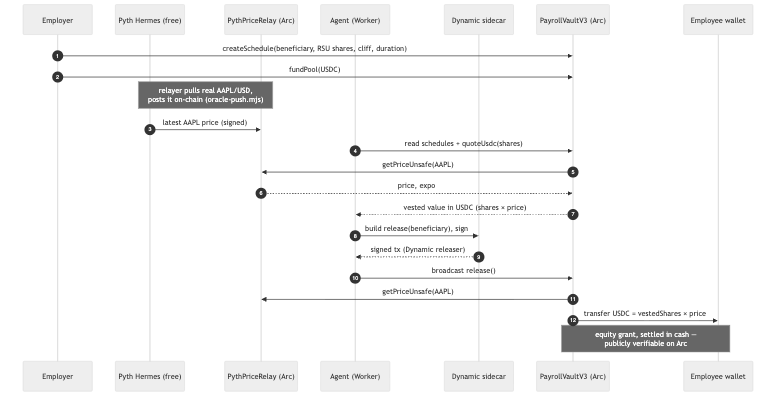
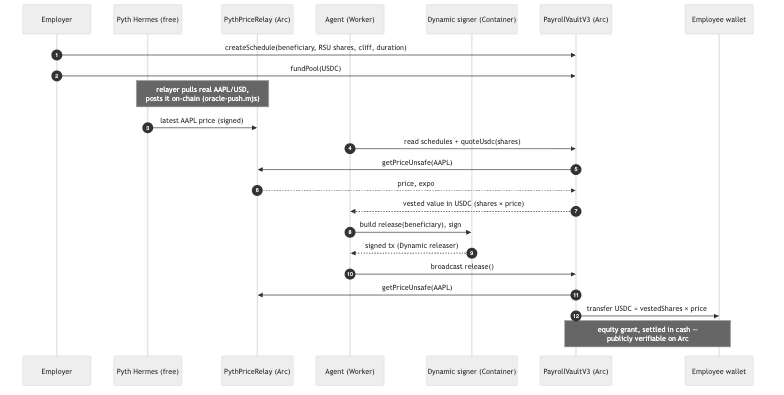
docs: reflect the Cloudflare Container signer; drop the tunnel script
The signer moved from a laptop Node process + cloudflared tunnel to a Cloudflare
Container fronted by the Worker, so the live on-chain path now runs fully on
Cloudflare. Updated README, DEMO, ARCHITECTURE (+ re-rendered diagrams),
SUBMISSION, and submission.txt accordingly; corrected drifted server.mjs line
anchors. Removed scripts/live-signer.sh (the obsolete tunnel launcher).

No secrets: .dev.vars / .wallet.json were never committed and stay gitignored;
.dev.vars.example holds only empty placeholders; no real secret value appears in
any tracked file.

diff --git a/docs/DEMO.md b/docs/DEMO.md
@@ -7,20 +7,27 @@ run it and a walkthrough of what each part does.
 
 ## Run it
 
-The deployed app is live at **https://manila.maxwellandrew.com** — the agent,
-policy engine, maker-checker approvals, live balances, vesting display, and audit
-export all run there.
+The deployed app is live at **https://manila.maxwellandrew.com** and runs
+entirely on Cloudflare — the agent, policy engine, maker-checker approvals, live
+balances, vesting display, audit export, *and* live on-chain signing (sealing
+salaries, releasing equity).
 
-Live on-chain signing (sealing salaries, releasing equity) is performed by a
-Dynamic **MPC server wallet** that runs in a small Node sidecar — the Dynamic SDK
-ships a native binary that can't run inside Cloudflare Workers. To exercise the
-signing paths against the deployed app, run the sidecar and point the Worker at
-it:
+The Dynamic **MPC server wallet** signs from a **Cloudflare Container** the Worker
+calls through a Durable Object binding — the Dynamic SDK ships a native binary
+that can't run inside a Worker, and the container is the minimal real-OS process
+that can. There's nothing to stand up separately; it scales to zero, so the first
+signing action after it's been idle cold-starts it (~15s) and it stays warm while
+you use the app.
+
+To post a fresh equity price to the on-chain oracle:
 
 ```sh
-bash scripts/live-signer.sh     # starts the signing sidecar + a tunnel, points the deployed Worker at it
-node scripts/oracle-push.mjs   # posts the latest AAPL/USD price to the on-chain oracle
+node scripts/oracle-push.mjs   # posts the latest AAPL/USD price to the oracle
 ```
+
+Redeploying the signer container needs Docker running locally (`wrangler deploy`
+builds its amd64 image; on Apple Silicon, turn on Docker's Rosetta option so the
+build is fast).
 
 Reset to a clean state any time with **↺ Reset demo** in the footer (time-aware —
 it re-opens today's run without deleting history).
@@ -83,10 +90,10 @@ the employer.
 - **Two-leg payments.** A salary run has a sealed value leg (Unlink) and a metered
   nanopayment leg (x402 → Circle Gateway). The per-call nanopayment is the
   agent-to-service economy pattern, and the platform-fee rail.
-- **Keyless agent.** Signing runs in the Dynamic SDK's native MPC binary, so it
-  lives in a Node sidecar the Worker calls over an authenticated channel; the
-  Worker never holds key material. In production the sidecar runs on a small
-  always-on host rather than a laptop.
+- **Keyless agent.** Signing runs in the Dynamic SDK's native MPC binary, which
+  can't load in a Worker — so it runs in a Cloudflare Container the Worker calls
+  through a Durable Object binding; the Worker never holds key material. Same
+  platform, one `wrangler deploy`, no tunnel or separate host.
 - **Oracle by interface, not address.** The vault consumes `IPyth`; on Arc we
   supply a relay implementing it. Pointing at a canonical Pyth deployment is a
   constructor address change, no code edits.

diff --git a/README.md b/README.md
@@ -6,7 +6,7 @@ For a century, salaries were private because they came in a sealed manila envelo
 
 > Built solo at ETHGlobal New York 2026.
 
-**Live:** [manila.maxwellandrew.com](https://manila.maxwellandrew.com) — the agent, policy engine, maker-checker approval, live treasury balance, and audit export run on the deployed URL. The full on-chain disbursement path (Dynamic-signed, Gateway-batched, Unlink-sealed) runs locally against the signing sidecar; see [Run it](#run-it).
+**Live:** [manila.maxwellandrew.com](https://manila.maxwellandrew.com) — the whole app runs on Cloudflare: the agent, policy engine, maker-checker approval, live treasury balance, audit export, and the full on-chain disbursement path (Dynamic-signed, Gateway-batched, Unlink-sealed). The Dynamic MPC signer runs as a **Cloudflare Container** the Worker calls through a binding (its native binary can't load in a Worker); see [Run it](#run-it).
 
 A real agent-driven payroll run has settled on Arc testnet — three salaries sealed as private Unlink transfers, e.g. tx [`0x1e76d25d…b15f4c`](https://testnet.arcscan.app/tx/0x1e76d25d2ceb8900649b1b30fe7e8bb99ca7dc6b20e840707501a905c5b15f4c) (amount and counterparty unreadable on the explorer — that's the point).
 
@@ -37,7 +37,7 @@ This is only safe to leave unattended *because* the controls are deterministic: 
 
 Each integration is load-bearing — remove it and the product stops working, not just loses a feature.
 
-- **Dynamic** (Best Agentic Build, Best Money App, joint Private Nanopayments) — a Dynamic server wallet (MPC) is the treasury and the agent's signer. It lives in a Node sidecar (`sidecar/server.mjs`; the SDK's native MPC binary can't run in workerd) and signs every Gateway payment authorization over an authenticated channel (`src/lib/signer.ts`). The agent decides and executes, but holds no key material — the wallet signs on its behalf under the maker-checker controls.
+- **Dynamic** (Best Agentic Build, Best Money App, joint Private Nanopayments) — a Dynamic server wallet (MPC) is the treasury and the agent's signer. The SDK's signing runs in a native binary that can't load in workerd, so it runs in a **Cloudflare Container** (`sidecar/server.mjs`, `src/signer-container.ts`) that the Worker reaches through a Durable Object binding (`src/lib/signer.ts`) — same platform, no tunnel. It signs every Gateway payment authorization; the agent decides and executes, but holds no key material — the 2-of-2 wallet signs on its behalf under the maker-checker controls.
 - **Unlink** (joint Private Nanopayments) — every salary is sealed: each disbursement is an Unlink private transfer, so amounts and counterparties are unreadable on ArcScan (`src/lib/unlink.ts`, `src/routes/seal.ts`). This is the product's whole reason to exist; without it, payroll is public.
 - **Circle Gateway + Arc** (Best Agentic Economy, joint Private Nanopayments) — disbursements are metered as x402 nanopayments and netted by Circle Gateway into one batched, gas-free settlement on Arc testnet (`src/routes/seal.ts`, `src/routes/disburse.ts`). The agent paying per-call for each sealed disbursement is exactly the agent-to-service commerce pattern the Agentic Economy track is for.
 
@@ -50,7 +50,7 @@ The second rail is **equity that pays in cash**: [`PayrollVaultV3`](contracts/RE
 </p>
 
 - **Oracle.** The vault reads the standard Pyth `IPyth` interface. On Arc we provide [`PythPriceRelay`](contracts/src/PythPriceRelay.sol) — fed the real **AAPL/USD** price from Pyth's free [Hermes](https://hermes.pyth.network) feed (`scripts/oracle-push.mjs`) — so it's a drop-in for canonical Pyth (an address swap, no code change). The release payout literally tracks Apple's share price; raise the oracle and the same vested shares pay more USDC.
-- **Agent-operated.** The Dynamic server wallet is the vault's `releaser`; the agent releases (and re-arms) tranches on command, signed in the sidecar — every release a real, publicly verifiable USDC transfer on Arc, logged to the same audit trail.
+- **Agent-operated.** The Dynamic server wallet is the vault's `releaser`; the agent releases (and re-arms) tranches on command, signed in the container — every release a real, publicly verifiable USDC transfer on Arc, logged to the same audit trail.
 - **Deployed:** vault [`0x021Bf03C…B06b`](https://testnet.arcscan.app/address/0x021Bf03C10ed7d8205aaD4dE6D3847D94715B06b), oracle relay [`0xb8e18484…3424`](https://testnet.arcscan.app/address/0xb8e18484bebC0356A67293590B8affE2b55e3424).
 
 ## Roadmap
@@ -101,8 +101,9 @@ To exercise the live money path (real Arc testnet settlement), add sponsor crede
 cp .dev.vars.example .dev.vars     # DYNAMIC_API_KEY/ENV_ID, UNLINK_API_KEY, SEAL_FEE_ADDRESS,
                                    # SIGNER_SIDECAR_SECRET + SIDECAR_WALLET_PASSWORD (any random strings)
 
-# 1. Treasury wallet — the Dynamic MPC server wallet, in its Node sidecar.
+# 1. Treasury wallet — provision the Dynamic MPC server wallet and print its address.
 node sidecar/server.mjs            # prints the treasury address; copy it into .dev.vars as TREASURY_WALLET_ADDRESS
+                                   # (the same server.mjs runs as a Cloudflare Container in production — see Known limitations)
 
 # 2. Private accounts — treasury + employees on Unlink.
 node scripts/setup-unlink.mjs      # registers the accounts, faucets the treasury's private balance,
@@ -136,7 +137,7 @@ Once green, "Run today's payroll" seals three real private transfers on Arc, set
 
 ## Known limitations
 
-- The Dynamic MPC signer runs in a Node sidecar (`sidecar/server.mjs`) because the SDK ships a native binary that can't load in Cloudflare Workers. The deployed Worker reaches it over an authenticated channel; for judging, the live on-chain path runs locally (or with the sidecar tunnelled) while read endpoints and the agent run fully on the edge.
+- The Dynamic MPC signer runs as a **Cloudflare Container** (`sidecar/server.mjs`, `src/signer-container.ts`) because the SDK ships a native binary that can't load in a Worker. The Worker reaches it through a Durable Object binding, so the entire app — including the live on-chain signing path — runs on Cloudflare with no tunnel or separate host. The container scales to zero and wakes on demand (a ~15s cold start after idle, then warm while in use). Deploying it needs Docker running locally, since `wrangler deploy` builds the amd64 image; on Apple Silicon, enable Docker's Rosetta option so that build is fast.
 - The agent runs on the best free function-calling model on Workers AI (Llama 3.3 70B). It reliably parses intent and drafts; the policy gate and execute/approve branch are deterministic on purpose, so model variance can't affect correctness or bypass a control.
 - On arc-testnet the sealed token is a mock USDC (`USDCm`) from Unlink's faucet, not native USDC (see Privacy model).
 - Demo amounts are dollars, not thousands, because the Arc faucet grants 20 USDC per address per 2h — every transaction is real testnet value.

diff --git a/docs/ARCHITECTURE.md b/docs/ARCHITECTURE.md
@@ -20,8 +20,8 @@ flowchart TB
     Audit[("Audit log → CSV")]
   end
 
-  Sidecar["Signing sidecar (Node)<br/><b>Dynamic</b> MPC 2-of-2 server wallet"]
-  Sidecar -. signs, agent holds no keys .-> Agent
+  Sidecar["<b>Dynamic</b> MPC signer — Cloudflare Container<br/>2-of-2 server wallet (native binary, off-Worker)"]
+  Sidecar -. signs via DO binding; agent holds no keys .-> Agent
 
   subgraph Salary["Rail 1 — sealed daily salary (private)"]
     Seal["Seal service<br/>x402-protected, per employee"]
@@ -62,7 +62,7 @@ sequenceDiagram
   participant H as Pyth Hermes (free)
   participant R as PythPriceRelay (Arc)
   participant A as Agent (Worker)
-  participant S as Dynamic sidecar
+  participant S as Dynamic signer (Container)
   participant V as PayrollVaultV3 (Arc)
   participant B as Employee wallet
 

diff --git a/docs/SUBMISSION.md b/docs/SUBMISSION.md
@@ -27,4 +27,4 @@ An autonomous agent transacting via gas-free nanopayments on Arc: each disbursem
 Hidden from the public: salary amounts and counterparties (sealed via Unlink). Visible to the employer: the complete run history, every policy decision, and settlement references, exported as CSV. That split is the compliance-correct shape for payroll.
 
 ## Notes for judges
-The credential-free surface (agent, policy, maker-checker approval, live treasury balance, audit export) runs on the deployed URL. The full on-chain disbursement path runs locally against the Dynamic signing sidecar (its SDK ships a native binary that can't run on Cloudflare Workers); see the README "Run it" section. On arc-testnet the sealed token is Unlink's mock USDC (`USDCm`); the architecture is token-agnostic. AI tool usage is documented in `docs/AI_USAGE.md`, with the pre-build spec in `docs/SPEC.md` and per-sponsor DX feedback in `docs/FEEDBACK.md`.
+The entire app runs on Cloudflare at the deployed URL — agent, policy, maker-checker approval, live treasury balance, audit export, and the full on-chain disbursement path. The Dynamic signer runs as a Cloudflare Container the Worker calls through a binding (its SDK ships a native binary that can't run inside a Worker); see the README "Run it" section. On arc-testnet the sealed token is Unlink's mock USDC (`USDCm`); the architecture is token-agnostic. AI tool usage is documented in `docs/AI_USAGE.md`, with the pre-build spec in `docs/SPEC.md` and per-sponsor DX feedback in `docs/FEEDBACK.md`.